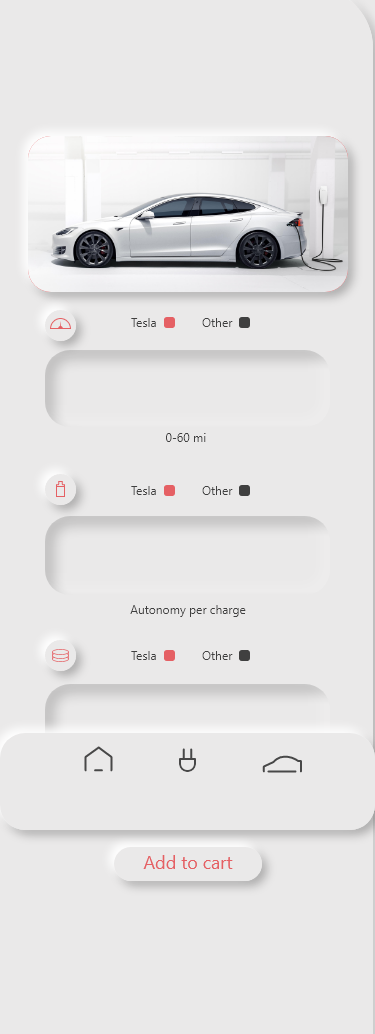
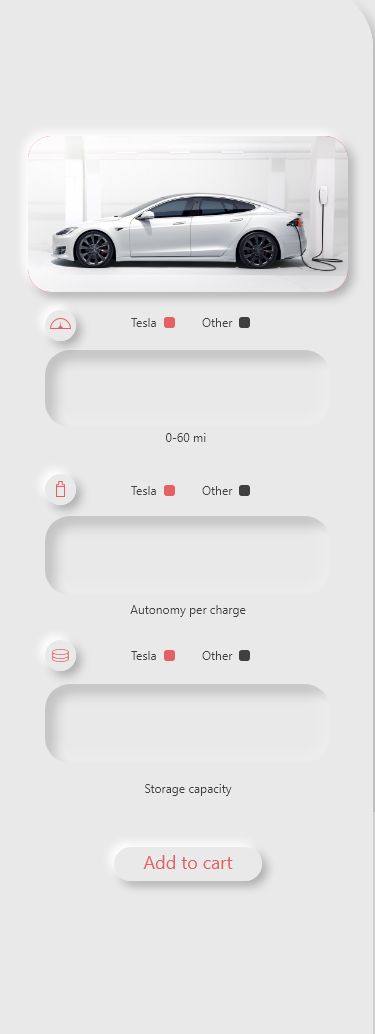
Scroll interaction and small fix

diff --git a/src/Main.java b/src/Main.java
@@ -33,6 +33,7 @@ public class Main extends PApplet {
 	int pantalla = 0;
 	int cars = 0;
 	boolean car = false;
+	int py = 0;
 
 	public static void main(String[] args) {
 		PApplet.main("Main");
@@ -104,9 +105,8 @@ public class Main extends PApplet {
 					break;
 
 				case 1:
-					image(ModelS_1, 0, 0);
+					image(ModelS_1, 0, py);
 					image(MSBAR, 0, 0);
-					image(BaseBar, 0, 0);
 					image(Frame, 0, 0);
 					break;
 
@@ -118,9 +118,8 @@ public class Main extends PApplet {
 					break;
 
 				case 3:
-					image(Model3_1, 0, 0);
+					image(Model3_1, 0, py);
 					image(M3BAR, 0, 0);
-					image(BaseBar, 0, 0);
 					image(Frame, 0, 0);
 					break;
 
@@ -132,9 +131,8 @@ public class Main extends PApplet {
 					break;
 
 				case 5:
-					image(ModelX_1, 0, 0);
+					image(ModelX_1, 0, py);
 					image(MXBAR, 0, 0);
-					image(BaseBar, 0, 0);
 					image(Frame, 0, 0);
 					break;
 
@@ -146,9 +144,8 @@ public class Main extends PApplet {
 					break;
 
 				case 7:
-					image(ModelY_1, 0, 0);
+					image(ModelY_1, 0, py);
 					image(MYBAR, 0, 0);
-					image(BaseBar, 0, 0);
 					image(Frame, 0, 0);
 					break;
 				}
@@ -164,7 +161,7 @@ public class Main extends PApplet {
 
 		case 4:
 
-			image(Main, 0, 0);
+			image(CheckOut, 0, 0);
 			image(Frame, 0, 0);
 
 			break;
@@ -173,7 +170,87 @@ public class Main extends PApplet {
 		fill(0);
 		text("X:" + mouseX + "Y:" + mouseY, mouseX, mouseY);
 
+		switch (cars) {
+		case 1:
+
+			// Scroll
+			if ((mouseX > 0 && mouseX < 375) && (mouseY > 710 && mouseY < 812)) {
+				if (py > -200) {
+					py -= 5;
+				}
+			}
+
+			if ((mouseX > 0 && mouseX < 375) && (mouseY > 0 && mouseY < 60)) {
+				if (py < 0) {
+					py += 5;
+				}
+			}
+
+			System.out.println("scroll" + py);
+			break;
+
+		case 3:
+
+			// Scroll
+			if ((mouseX > 0 && mouseX < 375) && (mouseY > 710 && mouseY < 812)) {
+				if (py > -200) {
+					py -= 5;
+				}
+			}
+
+			if ((mouseX > 0 && mouseX < 375) && (mouseY > 0 && mouseY < 60)) {
+				if (py < 0) {
+					py += 5;
+				}
+			}
+
+			System.out.println("scroll" + py);
+			break;
+
+		case 5:
+
+			// Scroll
+			if ((mouseX > 0 && mouseX < 375) && (mouseY > 710 && mouseY < 812)) {
+				if (py > -200) {
+					py -= 5;
+				}
+			}
+
+			if ((mouseX > 0 && mouseX < 375) && (mouseY > 0 && mouseY < 60)) {
+				if (py < 0) {
+					py += 5;
+				}
+			}
+
+			System.out.println("scroll" + py);
+			break;
+
+		case 7:
+
+			// Scroll
+			if ((mouseX > 0 && mouseX < 375) && (mouseY > 710 && mouseY < 812)) {
+				if (py > -200) {
+					py -= 5;
+				}
+			}
+
+			if ((mouseX > 0 && mouseX < 375) && (mouseY > 0 && mouseY < 60)) {
+				if (py < 0) {
+					py += 5;
+				}
+			}
+
+			System.out.println("scroll" + py);
+			break;
+		}
+
 	}
+
+//////////////////////////////////////////////////////////////////////////////////////////////
+
+//////////////////////////////////////////////////////////////////////////////////////////////
+
+//////////////////////////////////////////////////////////////////////////////////////////////
 
 	public void mousePressed() {
 
@@ -182,22 +259,29 @@ public class Main extends PApplet {
 
 	}
 
+//////////////////////////////////////////////////////////////////////////////////////////////
+
+//////////////////////////////////////////////////////////////////////////////////////////////
+
+//////////////////////////////////////////////////////////////////////////////////////////////
+
 	public void screen() {
 		switch (pantalla) {
 		case 0:
 			if ((mouseX > 284 && mouseX < 345) && (mouseY > 478 && mouseY < 540)) {
-				pantalla++;
+				pantalla = 1;
 			}
 
 			break;
 		case 1:
-			if ((mouseX > 60 && mouseX < 500) && (mouseY > 310 && mouseY < 550)) {
-				pantalla++;
+			if ((mouseX > 60 && mouseX < 500) && (mouseY > 500 && mouseY < 550)) {
+				pantalla = 2;
 				System.out.println("yes");
 			}
 
 			if ((mouseX > 195 && mouseX < 296) && (mouseY > 571 && mouseY < 584)) {
 				pantalla = 3;
+				car = false;
 			}
 
 			break;
@@ -232,11 +316,26 @@ public class Main extends PApplet {
 		case 3:
 			if ((mouseX > 58 && mouseX < 311) && (mouseY > 661 && mouseY < 720)) {
 				pantalla = 2;
+				car = false;
 			}
 
+			break;
+
+		case 4:
+			// BACK
+			if ((mouseX > 27 && mouseX < 54) && (mouseY > 67 && mouseY < 92)) {
+				pantalla=2;
+				break;
+
+			}
 		}
 	}
 
+//////////////////////////////////////////////////////////////////////////////////////////////
+
+//////////////////////////////////////////////////////////////////////////////////////////////
+
+//////////////////////////////////////////////////////////////////////////////////////////////
 	public void choosecar() {
 
 		switch (cars) {
@@ -251,6 +350,12 @@ public class Main extends PApplet {
 			// COMPAREE
 			if ((mouseX > 310 && mouseX < 345) && (mouseY > 65 && mouseY < 97)) {
 				cars = 1;
+				System.out.println("yes");
+			}
+			
+			//BUY
+			if ((mouseX > 113 && mouseX < 264) && (mouseY > 640 && mouseY < 684)) {
+				pantalla = 4;
 				System.out.println("yes");
 			}
 
@@ -269,6 +374,12 @@ public class Main extends PApplet {
 				cars = 0;
 				System.out.println("yes");
 			}
+			
+			//BUY
+			if ((mouseX > 113 && mouseX < 264) && (mouseY > 640 && mouseY < 684)) {
+				pantalla = 4;
+				System.out.println("yes");
+			}
 
 			break;
 
@@ -283,6 +394,12 @@ public class Main extends PApplet {
 			// COMPAREE
 			if ((mouseX > 310 && mouseX < 345) && (mouseY > 65 && mouseY < 97)) {
 				cars = 3;
+				System.out.println("yes");
+			}
+			
+			//BUY
+			if ((mouseX > 113 && mouseX < 264) && (mouseY > 640 && mouseY < 684)) {
+				pantalla = 4;
 				System.out.println("yes");
 			}
 
@@ -302,6 +419,12 @@ public class Main extends PApplet {
 				System.out.println("yes");
 			}
 
+			//BUY
+			if ((mouseX > 113 && mouseX < 264) && (mouseY > 640 && mouseY < 684)) {
+				pantalla = 4;
+				System.out.println("yes");
+			}
+
 			break;
 
 		case 4:
@@ -315,6 +438,12 @@ public class Main extends PApplet {
 			// COMPAREE
 			if ((mouseX > 310 && mouseX < 345) && (mouseY > 65 && mouseY < 97)) {
 				cars = 5;
+				System.out.println("yes");
+			}
+			
+			//BUY
+			if ((mouseX > 113 && mouseX < 264) && (mouseY > 640 && mouseY < 684)) {
+				pantalla = 4;
 				System.out.println("yes");
 			}
 
@@ -331,6 +460,13 @@ public class Main extends PApplet {
 			// COMPAREE
 			if ((mouseX > 310 && mouseX < 345) && (mouseY > 65 && mouseY < 97)) {
 				cars = 4;
+				System.out.println("yes");
+			}
+			
+			
+			//BUY
+			if ((mouseX > 113 && mouseX < 264) && (mouseY > 640 && mouseY < 684)) {
+				pantalla = 4;
 				System.out.println("yes");
 			}
 
@@ -350,6 +486,11 @@ public class Main extends PApplet {
 				System.out.println("yes");
 			}
 
+			//BUY
+			if ((mouseX > 113 && mouseX < 264) && (mouseY > 640 && mouseY < 684)) {
+				pantalla = 4;
+				System.out.println("yes");
+			}
 			break;
 
 		case 7:
@@ -364,8 +505,14 @@ public class Main extends PApplet {
 			if ((mouseX > 310 && mouseX < 345) && (mouseY > 65 && mouseY < 97)) {
 				cars = 6;
 				System.out.println("yes");
+
 			}
 
+			//BUY
+			if ((mouseX > 113 && mouseX < 264) && (mouseY > 640 && mouseY < 684)) {
+				pantalla = 4;
+				System.out.println("yes");
+			}
 			break;
 
 		}
